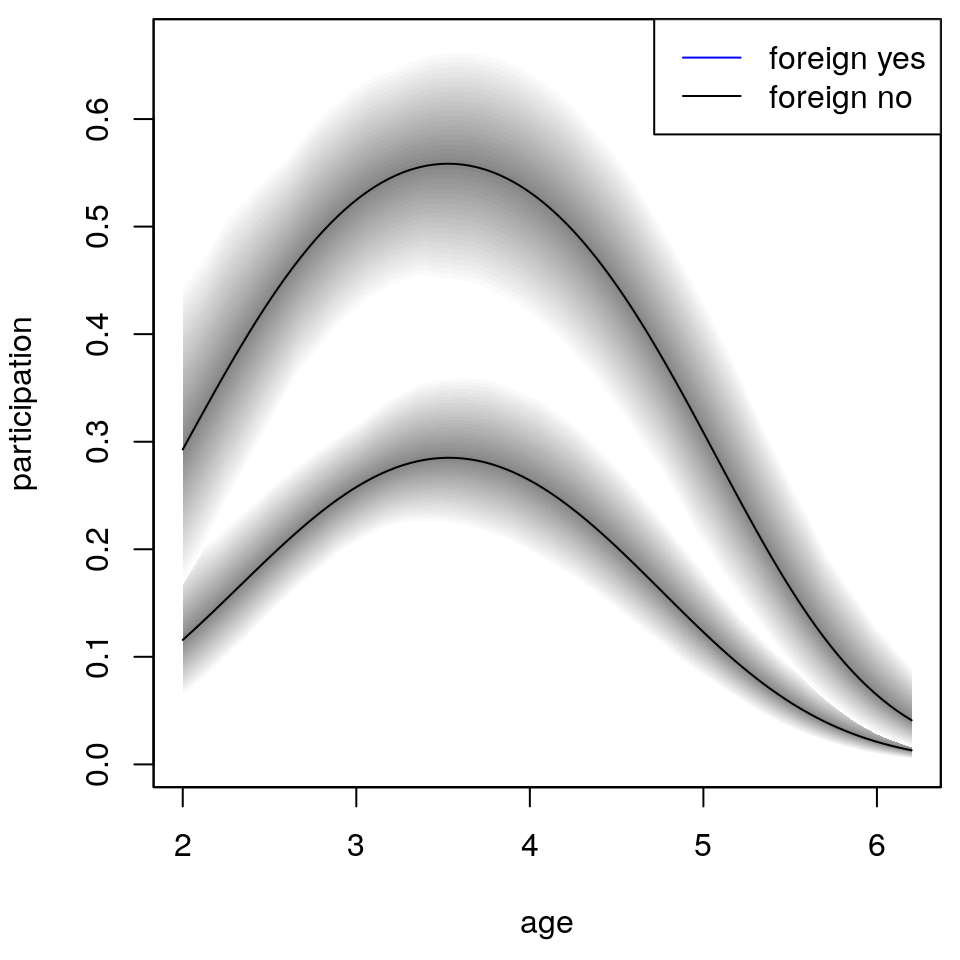
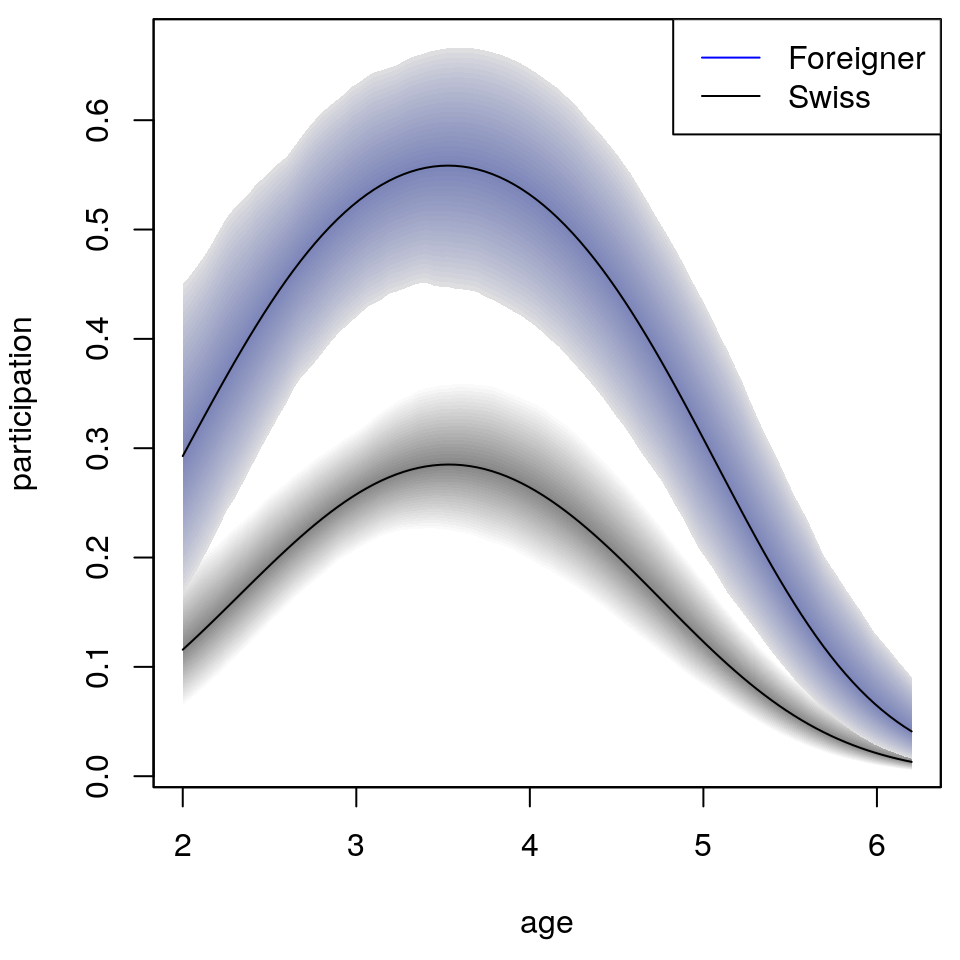
git-svn-id: svn://svn.r-forge.r-project.org/svnroot/bayesr@3394 edb9625f-4e0d-4859-8d74-9fd3b1da38cb

diff --git a/www/articles/glm.html b/www/articles/glm.html
@@ -242,7 +242,7 @@ nd &lt;-<span class="st"> </span><span class="kw"><a href="https://www.rdocument
 ## Predicted probabilities.
 <span class="kw"><a href="https://www.rdocumentation.org/packages/stats/topics/predict">predict</a></span>(b, <span class="dt">newdata =</span> nd, <span class="dt">type =</span> <span class="st">"parameter"</span>)</code></pre></div>
 <pre><code>## [1] 0.279716</code></pre>
-<div class="sourceCode"><pre class="sourceCode r"><code class="sourceCode r">nd$foreign &lt;-<span class="st"> </span><span class="kw"><a href="https://www.rdocumentation.org/packages/base/topics/factor">factor</a></span>(<span class="dv">2</span>, <span class="dt">levels =</span> <span class="dv">1</span>:<span class="dv">2</span>, <span class="dt">labels =</span> <span class="kw"><a href="https://www.rdocumentation.org/packages/base/topics/c">c</a></span>(<span class="st">"no"</span>, <span class="st">"yes"</span>))
+<div class="sourceCode"><pre class="sourceCode r"><code class="sourceCode r">nd$foreign &lt;-<span class="st"> "yes"</span>
 <span class="kw"><a href="https://www.rdocumentation.org/packages/stats/topics/predict">predict</a></span>(b, <span class="dt">newdata =</span> nd, <span class="dt">type =</span> <span class="st">"parameter"</span>)</code></pre></div>
 <pre><code>## [1] 0.552208</code></pre>
 <p>To visualize the effect of age on the probability we can do the following:</p>
@@ -251,13 +251,13 @@ nd &lt;-<span class="st"> </span><span class="kw"><a href="https://www.rdocument
   <span class="dt">education =</span> <span class="dv">12</span>, <span class="dt">youngkids =</span> <span class="dv">1</span>, <span class="dt">oldkids =</span> <span class="dv">1</span>,
   <span class="dt">foreign =</span> <span class="kw"><a href="https://www.rdocumentation.org/packages/base/topics/factor">factor</a></span>(<span class="dv">1</span>, <span class="dt">levels =</span> <span class="dv">1</span>:<span class="dv">2</span>, <span class="dt">labels =</span> <span class="kw"><a href="https://www.rdocumentation.org/packages/base/topics/c">c</a></span>(<span class="st">"no"</span>, <span class="st">"yes"</span>)))
 
-nd$p.no &lt;-<span class="st"> </span><span class="kw"><a href="https://www.rdocumentation.org/packages/stats/topics/predict">predict</a></span>(b, <span class="dt">newdata =</span> nd, <span class="dt">type =</span> <span class="st">"parameter"</span>, <span class="dt">FUN =</span> c95)
-nd$foreign &lt;-<span class="st"> </span><span class="kw"><a href="https://www.rdocumentation.org/packages/base/topics/factor">factor</a></span>(<span class="dv">2</span>, <span class="dt">levels =</span> <span class="dv">1</span>:<span class="dv">2</span>, <span class="dt">labels =</span> <span class="kw"><a href="https://www.rdocumentation.org/packages/base/topics/c">c</a></span>(<span class="st">"no"</span>, <span class="st">"yes"</span>))
-nd$p.yes &lt;-<span class="st"> </span><span class="kw"><a href="https://www.rdocumentation.org/packages/stats/topics/predict">predict</a></span>(b, <span class="dt">newdata =</span> nd, <span class="dt">type =</span> <span class="st">"parameter"</span>, <span class="dt">FUN =</span> c95)
+nd$pSwiss &lt;-<span class="st"> </span><span class="kw"><a href="https://www.rdocumentation.org/packages/stats/topics/predict">predict</a></span>(b, <span class="dt">newdata =</span> nd, <span class="dt">type =</span> <span class="st">"parameter"</span>, <span class="dt">FUN =</span> c95)
+nd$foreign &lt;-<span class="st"> "yes"</span>
+nd$pForeign &lt;-<span class="st"> </span><span class="kw"><a href="https://www.rdocumentation.org/packages/stats/topics/predict">predict</a></span>(b, <span class="dt">newdata =</span> nd, <span class="dt">type =</span> <span class="st">"parameter"</span>, <span class="dt">FUN =</span> c95)
 
 <span class="kw"><a href="../reference/plot2d.html">plot2d</a></span>(p.no ~<span class="st"> </span>age, <span class="dt">data =</span> nd, <span class="dt">ylab =</span> <span class="st">"participation"</span>,
-  <span class="dt">ylim =</span> <span class="kw"><a href="https://www.rdocumentation.org/packages/base/topics/range">range</a></span>(<span class="kw"><a href="https://www.rdocumentation.org/packages/base/topics/c">c</a></span>(nd$p.no, nd$p.yes)), <span class="dt">lty =</span> <span class="kw"><a href="https://www.rdocumentation.org/packages/base/topics/c">c</a></span>(<span class="dv">2</span>, <span class="dv">1</span>, <span class="dv">2</span>))
-<span class="kw"><a href="../reference/plot2d.html">plot2d</a></span>(p.yes ~<span class="st"> </span>age, <span class="dt">data =</span> nd, <span class="dt">col.lines =</span> <span class="st">"blue"</span>, <span class="dt">add =</span> <span class="ot">TRUE</span>,
+  <span class="dt">ylim =</span> <span class="kw"><a href="https://www.rdocumentation.org/packages/base/topics/range">range</a></span>(<span class="kw"><a href="https://www.rdocumentation.org/packages/base/topics/c">c</a></span>(nd$p.no, nd$pForeign)), <span class="dt">lty =</span> <span class="kw"><a href="https://www.rdocumentation.org/packages/base/topics/c">c</a></span>(<span class="dv">2</span>, <span class="dv">1</span>, <span class="dv">2</span>))
+<span class="kw"><a href="../reference/plot2d.html">plot2d</a></span>(pForeign ~<span class="st"> </span>age, <span class="dt">data =</span> nd, <span class="dt">col.lines =</span> <span class="st">"blue"</span>, <span class="dt">add =</span> <span class="ot">TRUE</span>,
   <span class="dt">lty =</span> <span class="kw"><a href="https://www.rdocumentation.org/packages/base/topics/c">c</a></span>(<span class="dv">2</span>, <span class="dv">1</span>, <span class="dv">2</span>))
 <span class="kw"><a href="https://www.rdocumentation.org/packages/graphics/topics/legend">legend</a></span>(<span class="st">"topright"</span>, <span class="kw"><a href="https://www.rdocumentation.org/packages/base/topics/c">c</a></span>(<span class="st">"foreign yes"</span>, <span class="st">"foreign no"</span>), <span class="dt">lwd =</span> <span class="dv">1</span>,
   <span class="dt">col =</span> <span class="kw"><a href="https://www.rdocumentation.org/packages/base/topics/c">c</a></span>(<span class="st">"blue"</span>, <span class="st">"black"</span>))</code></pre></div>
